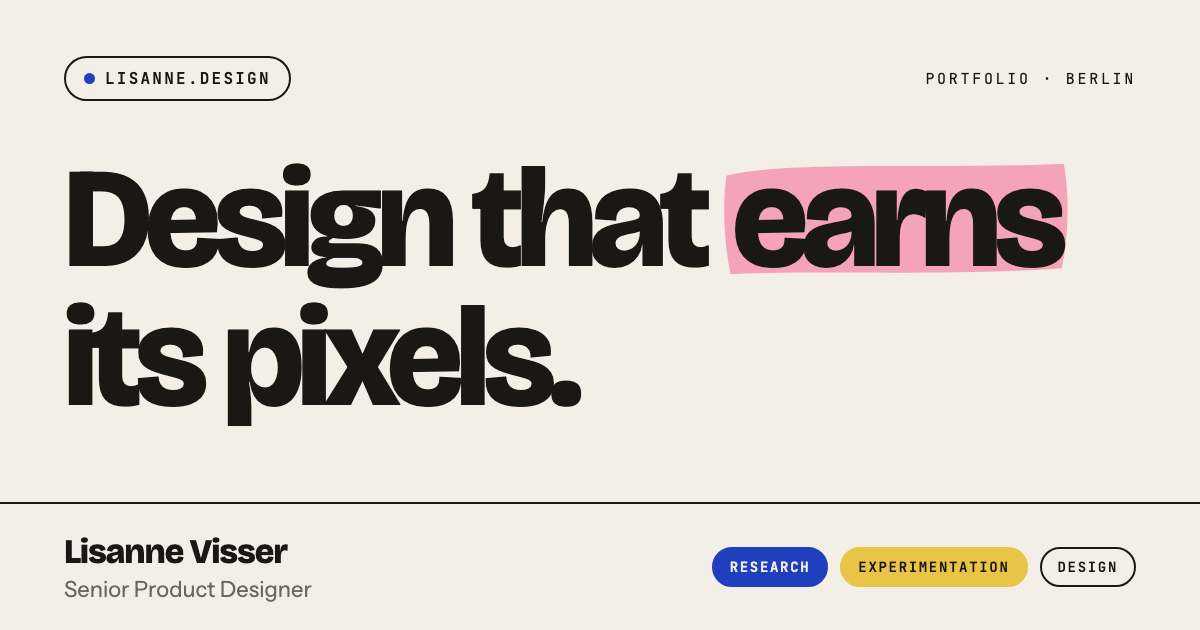
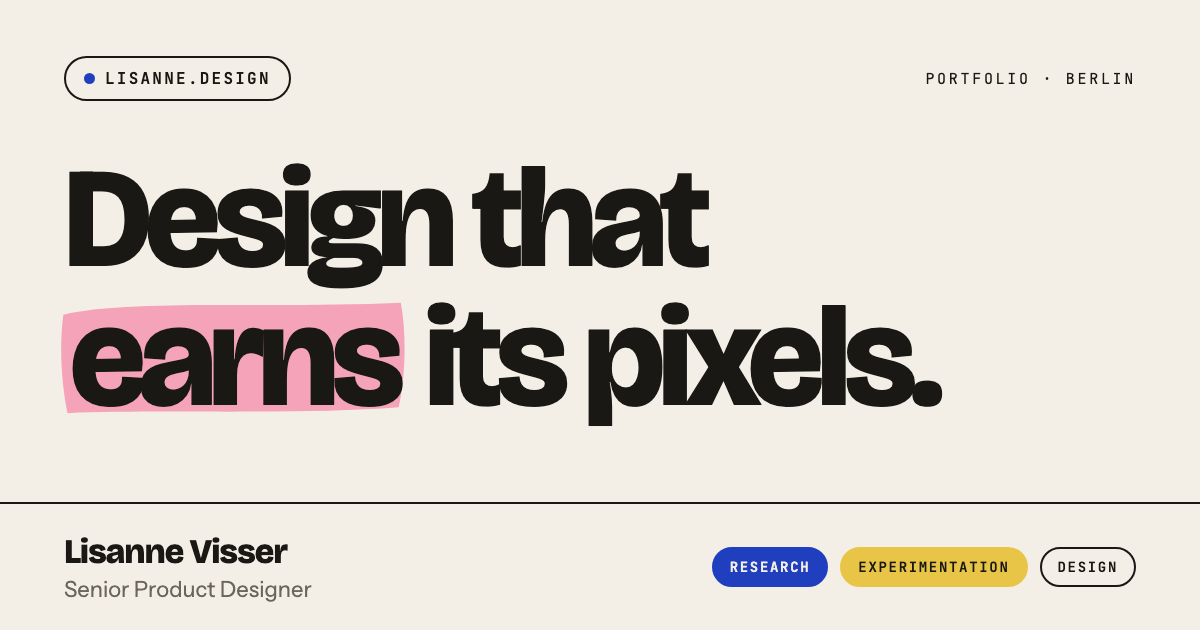
Share card: "earns" opens the second line (#267)
Matches the home headline, where "earns" moved to line two in #265.
Bumps ?v= on the card image.

Changed region(s): [[0.0308, 0.4825, 0.8017, 0.6937], [0.5858, 0.2413, 0.8942, 0.4524]]

diff --git a/index.html b/index.html
@@ -17,14 +17,14 @@
   <meta property="og:locale" content="en_US" />
   <meta property="og:title" content="Lisanne Visser — Senior Product Designer" />
   <meta property="og:description" content="Generalist product designer with a research &amp; experimentation spine. Based in Berlin." />
-  <meta property="og:image" content="https://lisannevisser.github.io/portfolio/images/og-card.png?v=2026-10-27-2" />
+  <meta property="og:image" content="https://lisannevisser.github.io/portfolio/images/og-card.png?v=2026-10-27-3" />
   <meta property="og:image:width" content="1200" />
   <meta property="og:image:height" content="630" />
   <meta property="og:image:alt" content="Design that earns its pixels. A hand-drawn pink highlight marks the word earns. Lisanne Visser, Senior Product Designer, with the tags Research, Experimentation and Design." />
   <meta name="twitter:card" content="summary_large_image" />
   <meta name="twitter:title" content="Lisanne Visser — Senior Product Designer" />
   <meta name="twitter:description" content="Generalist product designer with a research &amp; experimentation spine. Based in Berlin." />
-  <meta name="twitter:image" content="https://lisannevisser.github.io/portfolio/images/og-card.png?v=2026-10-27-2" />
+  <meta name="twitter:image" content="https://lisannevisser.github.io/portfolio/images/og-card.png?v=2026-10-27-3" />
   <meta name="twitter:image:alt" content="Design that earns its pixels. A hand-drawn pink highlight marks the word earns. Lisanne Visser, Senior Product Designer, with the tags Research, Experimentation and Design." />
 
   <!-- Provisional favicon: "li" set in JetBrains Mono, the same mono as the

diff --git a/og/og-card.html b/og/og-card.html
@@ -28,7 +28,7 @@ h1{position:absolute;left:64px;top:150px;margin:0;font-family:"Bricolage Grotesq
 .tag.c{background:var(--cobalt);border-color:var(--cobalt);color:var(--paper)}.tag.m{background:var(--mustard);border-color:var(--mustard)}
 </style></head><body>
 <div class="top"><div class="logo">lisanne.design</div><div class="kicker">Portfolio · Berlin</div></div>
-<h1>Design that <span class="mark"><svg viewBox="0 0 340 130" preserveAspectRatio="none"><path d="M8 22 C 70 6, 210 16, 330 10 C 336 44, 334 88, 328 116 C 232 124, 96 118, 12 122 C 6 92, 4 52, 8 22 Z"/></svg><span>earns</span></span><br>its pixels.</h1>
+<h1>Design that<br><span class="mark"><svg viewBox="0 0 340 130" preserveAspectRatio="none"><path d="M8 22 C 70 6, 210 16, 330 10 C 336 44, 334 88, 328 116 C 232 124, 96 118, 12 122 C 6 92, 4 52, 8 22 Z"/></svg><span>earns</span></span> its pixels.</h1>
 <div class="foot"><div><div class="name">Lisanne Visser</div><div class="role">Senior Product Designer</div></div>
 <div class="tags"><span class="tag c">Research</span><span class="tag m">Experimentation</span><span class="tag">Design</span></div></div>
 </body></html>
